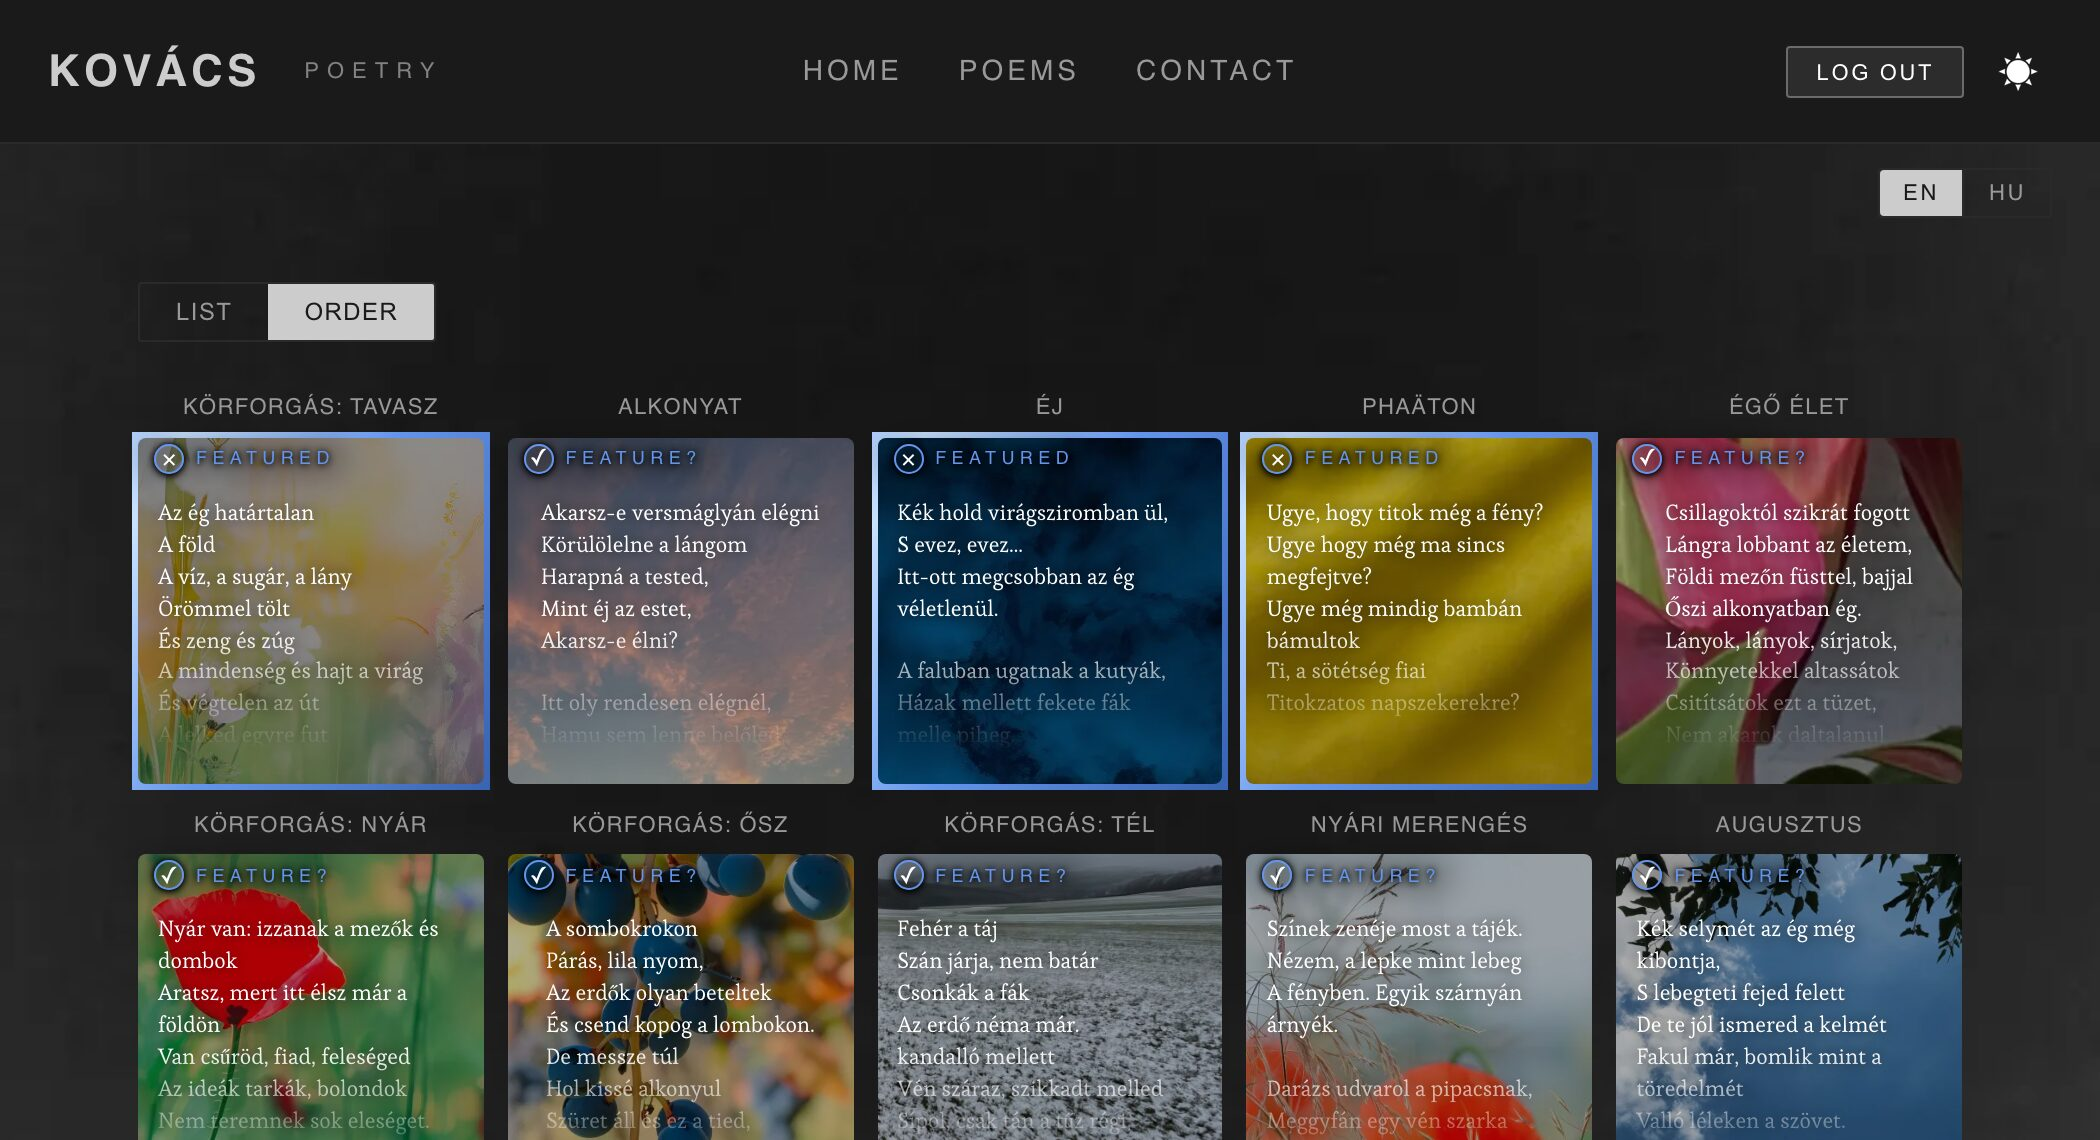
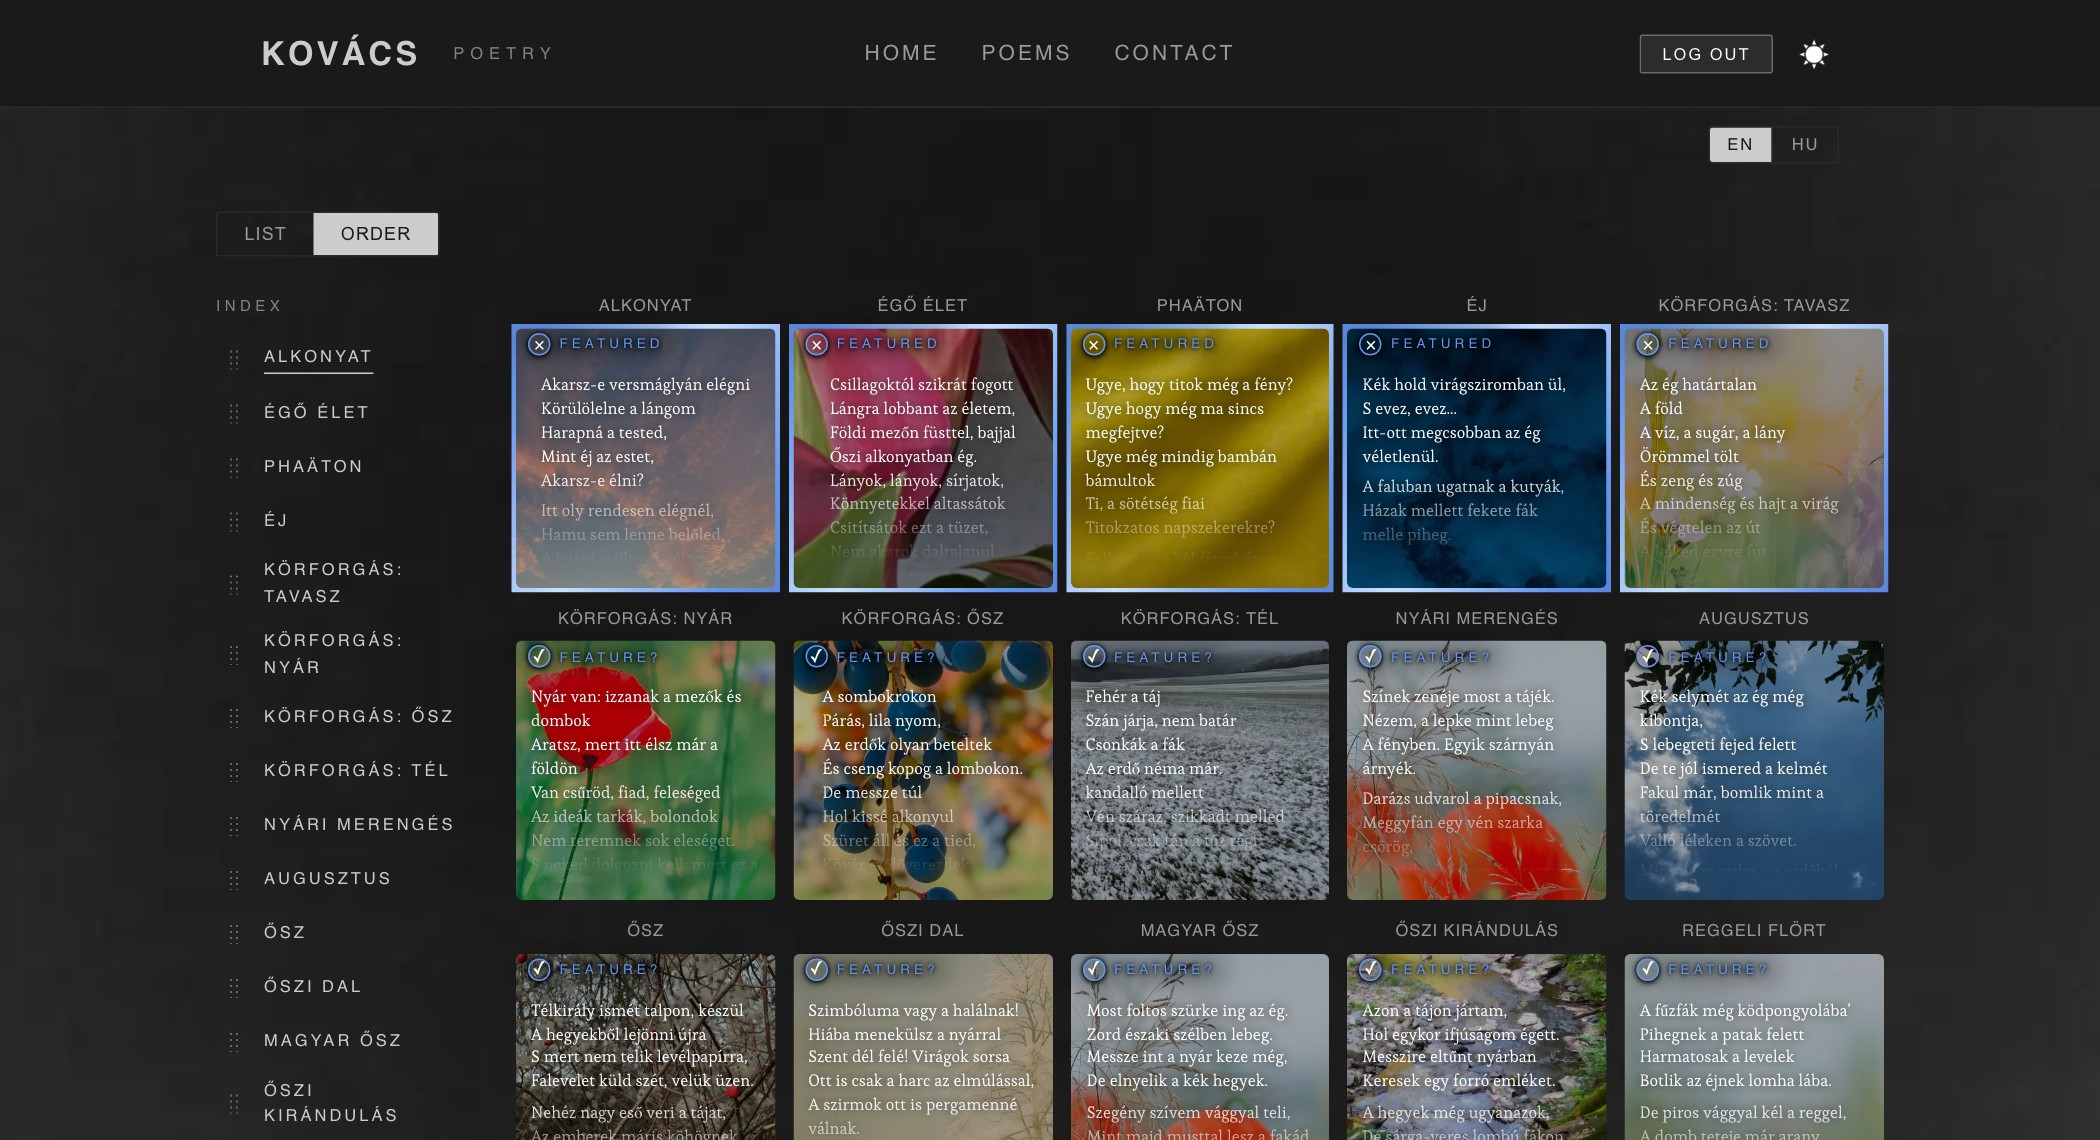
Bring the README up to date with the sidebar, the grip and the throttle
Three things the document no longer described.

The Order view gained a contents sidebar that mirrors the public one, and
dragging either it or the cards reorders both. The screenshot beside that
paragraph predated the sidebar entirely, so the text would have described
something the picture did not show; retaken at the same size.

Touch reordering happens by a grip now, which is worth a sentence rather than
leaving someone to discover that long-pressing an entry does nothing.

Sign-in is throttled three ways and the README claimed nothing about it, while
happily documenting the contact form's rate limiting a few lines earlier.

Also notes that Firestore is optional. That became true when firebaseAdmin
stopped initialising at import, and it is the difference between a fresh clone
running immediately and one that needs a Firebase account first.

diff --git a/README.md b/README.md
@@ -57,7 +57,9 @@ CLOUDINARY_URL=
 ```
 
 Contact email (`RESEND_API_KEY` or SMTP) is optional — without it the form returns 503 rather
-than dropping messages. The site also runs with no API at all: the poems are in the bundle,
+than dropping messages. Firestore is optional too: leave the `FIREBASE_*` lines commented and
+the API still starts and serves the bundled poems, so a fresh clone runs before you have signed
+up for anything. The site runs with no API at all in the same way — the poems are in the bundle,
 and the portal is simply unreachable.
 
 ### Scripts
@@ -93,9 +95,20 @@ npm run backup-poems     # writes the live poems to backups/
 Password login with JWT auth at `/admin`. Create, edit, delete and drag-to-reorder poems,
 feature them on the home carousel, and upload images.
 
+Sign-in is throttled three ways: three wrong passwords in a row pause it for thirty seconds,
+which the form counts down rather than calling a lockout an incorrect password, and two
+fifteen-minute limits sit behind that as the real ceiling — one in memory, one in Firestore so
+it survives a restart.
+
 **List** is where a poem is written: the image preview sits beside the fields that produce it,
 because the text is laid over the image rather than beside it. **Order** is the same poems as
-cards, dragged into the sequence readers meet them in.
+cards, dragged into the sequence readers meet them in, beside a contents sidebar that mirrors
+the public one. Dragging either the cards or the sidebar reorders both, and the change is live
+for visitors straight away.
+
+On a touch screen each sidebar entry is dragged by its grip. Reordering and scrolling are both
+vertical in a list like that, so the grip is what tells the browser which one a touch means —
+everywhere else on the row still scrolls.
 
 ![The portal's List view](docs/screenshot-admin-list.jpg)
 
